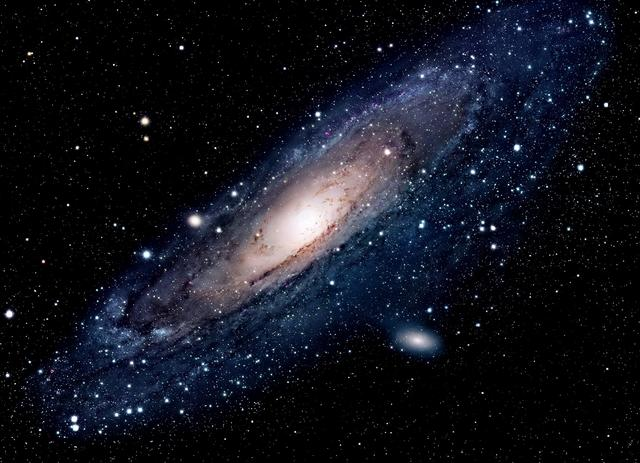
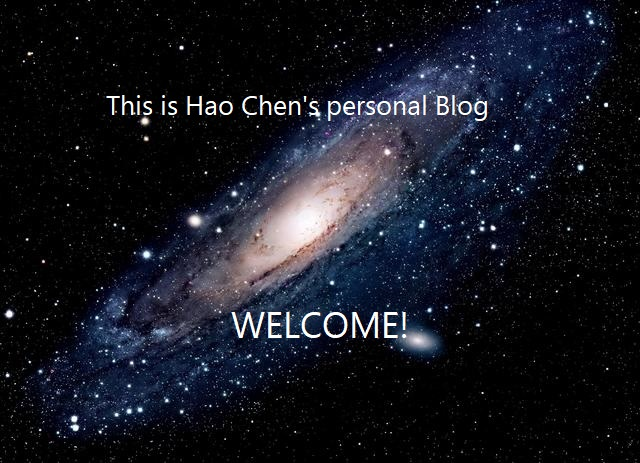
s

Changed region(s): [[0.1562, 0.2117, 0.7812, 0.2721], [0.3438, 0.6652, 0.6562, 0.7559]]

diff --git a/projects.html b/projects.html
@@ -4,7 +4,9 @@
         <meta charset="utf-8" />
         <title>Roger's Blog</title>
         <meta name="description" content="Example" />
-        <link rel="stylesheet" type="text/css" href="css/main.css">
+        <link rel="stylesheet" type="text/css" href="css/projects.css">
+        <link href="css/all.min.css" type="text/css" rel="stylesheet">
+        <link href="css/fontawesome.min.css" type="text/css" rel="stylesheet">
     </head>
     
     <body>
@@ -85,36 +87,15 @@
                     </div>
                 </div>
             </div>
-            <div id="toolBar">
-                <input id="searchBar" type="text" placeholder="Search">
-                <br>
-                <div id="buttonArea">
-                    <a class="tbutton" href="#">categories</a><br><br>
-                    <a class="tbutton" href="#">categories</a><br><br>
-                    <a class="tbutton" href="#">categories</a><br><br>
-                    <a class="tbutton" href="#">categories</a><br>
-                </div>
-            </div>
-            <div id="content postContainer">
-                <div id="card" class="cards" style="max-width: 700px" data-title='Title here' data-info="Title here there should be some breif introduction about this story here something soemthing soemthing....">
-                    <img src="photos/dummy.jpg" id="image" alt="..." style="margin-top: 45px; margin-left: 10px">
-                    <strong id="author">name/something</strong>
-                    <nobr id="title">
-                    <a href="BlogPost.html" id="lllink">Title here</a>
-                    </nobr> 
-                    <div id="date">Nov 12</div>
-                    <p id="intro">there should be some breif introduction about this story here something soemthing soemthing....</p>
-                    <a href="BlogPost.html" id="link">Continue reading</a>
-                </div>
-                <form style="width: 150px;" id="fform">
-                    <div class="col-auto my-1">
-                      <select class="custom-select mr-sm-2" id="sorting">
-                        <option selected>Sort By</option>
-                        <option value="Title">Title</option>
-                        <option value="Random">Random</option>
-                      </select>
-                    </div>
-                </form>
+            <div id="content">
+             <h1 style="text-align: center; color: gray; font-size: 3em">Projects</h1>
+              <p style="text-align: center; color: gray; font-size: 1.6em">“You can do anything you set your mind to.”<br> - Benjamin Franklin</p>
+               <a href="project-flappybird.html"><div class="container">
+                  <img src="photos/flappybird.png" alt="Avatar" class="image" style="width:100%">
+                  <div class="middle">
+                    <p class="text" style="text-align: left;"><h1>Flappy Bird</h1><hr>This is a little game I made using Java.</p>
+                  </div>
+                </div></a>
             </div>
             <div id="footer">
                 <div id="fttext">
@@ -122,6 +103,5 @@
                 </div>
             </div>
         </div>
-        <script src="javascipt/browsePost.js" type="text/javascript"></script>
     </body>
 </html>

diff --git a/css/projects.css b/css/projects.css
@@ -161,54 +161,48 @@
 
 #content{
     grid-area: cont;
+    margin-left: 100px;
+    margin-right: 100px;
 }
 
-#image{
-    margin-top: 20px;
-    margin-bottom: 20px;
-    border-radius: 0.25em;
-    display: block;
-    margin-left: auto;
-    margin-right: auto;
+
+.container {
+    position: relative;
+    width: 40%;
+    display: inline-block;
 }
 
-#something{
-    border-style: solid;
-    border-radius: 10px;
-    margin: auto;
-    width: 70%;
-    margin-top: 30px;
+.image {
+  opacity: 1;
+  display: block;
+  width: 100%;
+  height: auto;
+  transition: .5s ease;
+  backface-visibility: hidden;
 }
 
-#user{
-    display: grid;
-    grid-template-columns: 70px 1fr;
-    grid-template-rows: auto auto;
-    justify-content: center;
-    grid-template-areas: 
-        "ic name"
-        "ic info";
+.middle {
+  transition: .5s ease;
+    width: 80%;
+  opacity: 0;
+  position: absolute;
+  top: 30%;
+  left: 50%;
+  transform: translate(-50%, -50%);
+  -ms-transform: translate(-50%, -50%);
 }
 
-#icon{
-    width: 60px;
-    height: 60px;
-    border-radius: 2em;
-    grid-area: ic
+.container:hover .image {
+  opacity: 0.3;
 }
 
-#name{
-    grid-area: name;
-    font-weight: bold;
-    font-size: 1.2em;
-}
-#info{
-    grid-area: info;
+.container:hover .middle {
+  opacity: 1;
 }
 
-#paragraph{
-    width: 60%;
-    margin: auto;
+.text {
+  color: black;
+  font-size: 1.1em;
 }
 
 #footer{

diff --git a/index.html b/index.html
@@ -11,10 +11,10 @@
         <div id="page">
             <div id="navBar">
                <div id="navBar">
-               <div id="linkSection">
+               <div id="linkSection" style="position: sticky; top: 0px;">
                     <a href="index.html" class="links" style="font-size: 1.5em">Roger's Blog</a>
                     <a href="index.html" class="links" style="color: white">HomePage</a>
-                    <a href="project-flappybird.html" class="links">Projects</a>
+                    <a href="projects.html" class="links">Projects</a>
                     <a href="browsePosts.html" class="links">browsePosts</a>
                     <div class="links dropdown" style="color: rgb(230, 230, 230); font-size: 1.3em;">
                         <button class="dropbtn">USACO Training</button>
@@ -86,10 +86,6 @@
                     </div>
                 </div>
             </div>
-                <div id='sss'>
-                    This is Hao Chen's personal Blog<br><br><br><br><br>
-                    WELCOME!
-                </div>
             </div>
             <div id="content">
                 <h1 id="title">Posts</h1>

diff --git a/project-flappybird.html b/project-flappybird.html
@@ -10,10 +10,10 @@
     <body>
         <div id="page">
             <div id="navBar">
-               <div id="linkSection">
+               <div id="linkSection" style="position: sticky; top: 0px;">
                     <a href="index.html" class="links" style="font-size: 1.5em">Roger's Blog</a>
                     <a href="index.html" class="links">HomePage</a>
-                    <a href="project-flappybird.html" class="links" style="color: white">Projects</a>
+                    <a href="projects.html" class="links" style="color: white">Projects</a>
                     <a href="browsePosts.html" class="links">browsePosts</a>
                     <div class="links dropdown" style="color: rgb(230, 230, 230); font-size: 1.3em;">
                         <button class="dropbtn">USACO Training</button>

diff --git a/BlogPost.html b/BlogPost.html
@@ -11,11 +11,11 @@
     
     <body>
         <div id="page">
-            <div id="navBar">
+            <div id="navBar" style="position: sticky; top: 0px;">
                <div id="linkSection">
                     <a href="index.html" class="links" style="font-size: 1.5em">Roger's Blog</a>
                     <a href="index.html" class="links">HomePage</a>
-                    <a href="project-flappybird.html" class="links">Projects</a>
+                    <a href="projects.html" class="links">Projects</a>
                     <a href="browsePosts.html" class="links" style="color: white">browsePosts</a>
                     <div class="links dropdown" style="color: rgb(230, 230, 230); font-size: 1.3em;">
                         <button class="dropbtn">USACO Training</button>

diff --git a/css/homepage.css b/css/homepage.css
@@ -12,12 +12,13 @@
         "cont"
         "footer";
     background-color: aqua;
-    grid-row-gap: 20px;
+    background-color: rgb(243, 239, 224);
 }
 
 #navBar{
     grid-area: nav;
     background-image: url('../photos/space.jpg');
+    background-attachment: fixed;
     background-repeat: no-repeat no-repeat;
     background-size: cover;
     height: 700px;
@@ -27,7 +28,6 @@
     color: white;
     font-size: 3em;
     text-align: center;
-    margin-top: 200px;
 }
 #linkSection{
     margin-left: 50px;
@@ -167,6 +167,7 @@
 }
 #content{
     grid-area: cont;
+    background-color: rgb(243, 239, 224);
 }
 
 #postDiv{

diff --git a/css/main.css b/css/main.css
@@ -14,7 +14,7 @@
         "nav nav"
         "tool cont"
         "footer footer";
-    background-color: aqua;
+    background-color: rgb(243, 239, 224);
     grid-row-gap: 20px;
 }
 
@@ -112,7 +112,7 @@
 .dropbtn-level2 {
     width: 130%;
     background-color: rgba(0, 0, 0, 0);
-    color: black;
+    color: black; 
     border-style: none;
     font-size: 1.01em;
 }
@@ -177,6 +177,7 @@
     border: 1px solid #ccc;
     border-radius: 4px;
     box-sizing: border-box;
+    background-color: rgb(243, 239, 224);
 }
 
 #buttonArea{

diff --git a/css/project.css b/css/project.css
@@ -12,12 +12,13 @@
         "cont"
         "footer";
     background-color: aqua;
+    background-color: rgb(243, 239, 224);
     grid-row-gap: 20px;
 }
 
 #navBar{
     grid-area: nav;
-    background-image: url('../photos/flappybird.png');
+    background-image: url('../photos/flappybird-smaller.png');
     background-repeat: no-repeat no-repeat;
     background-size: cover;
     height: 300px;
